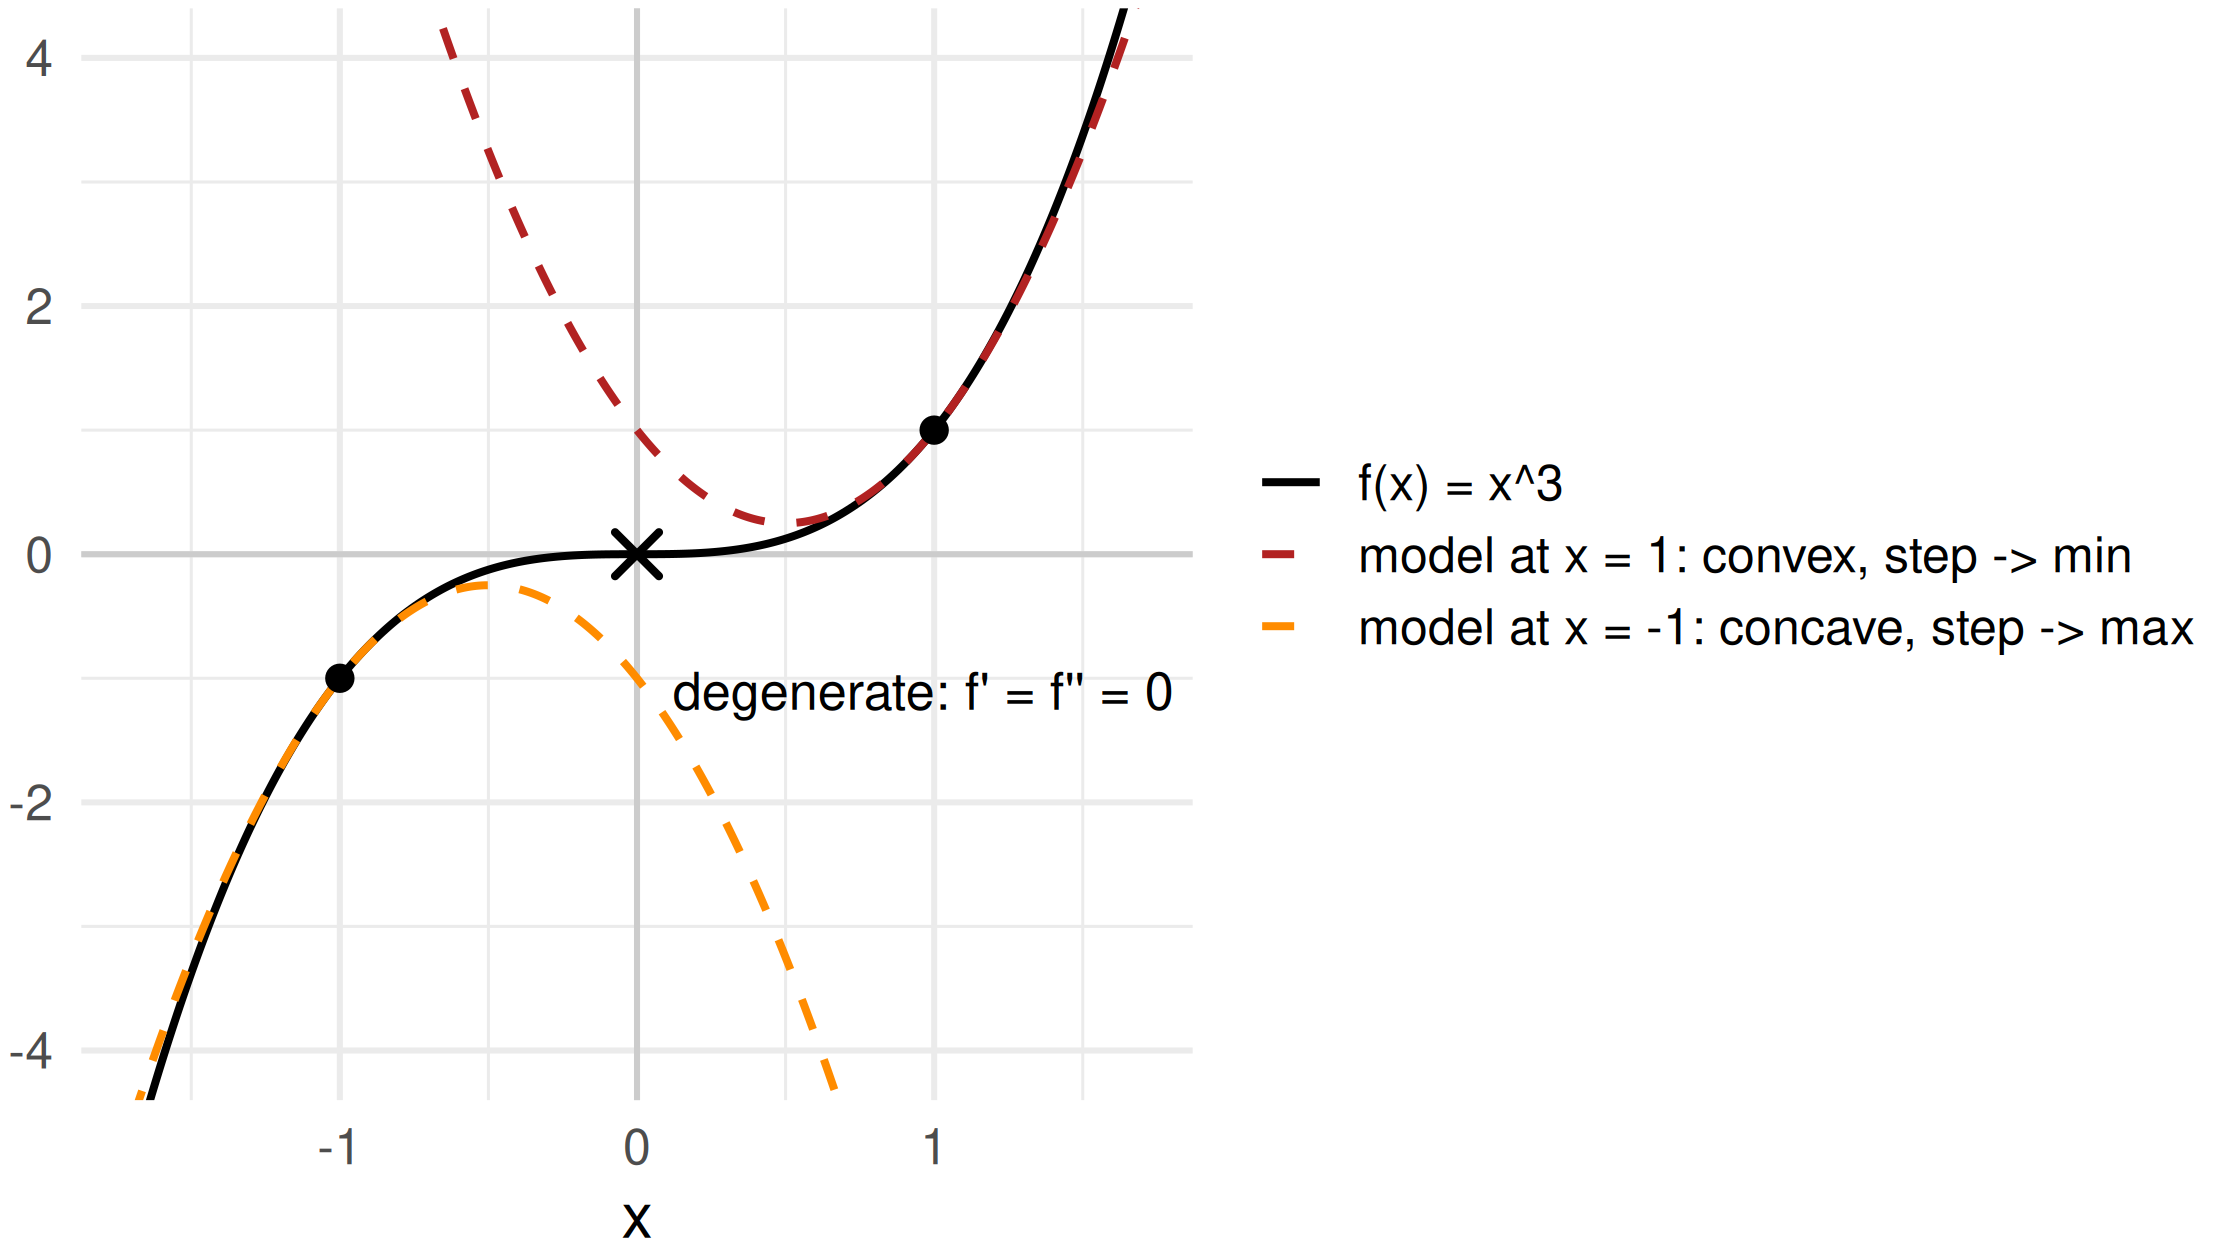
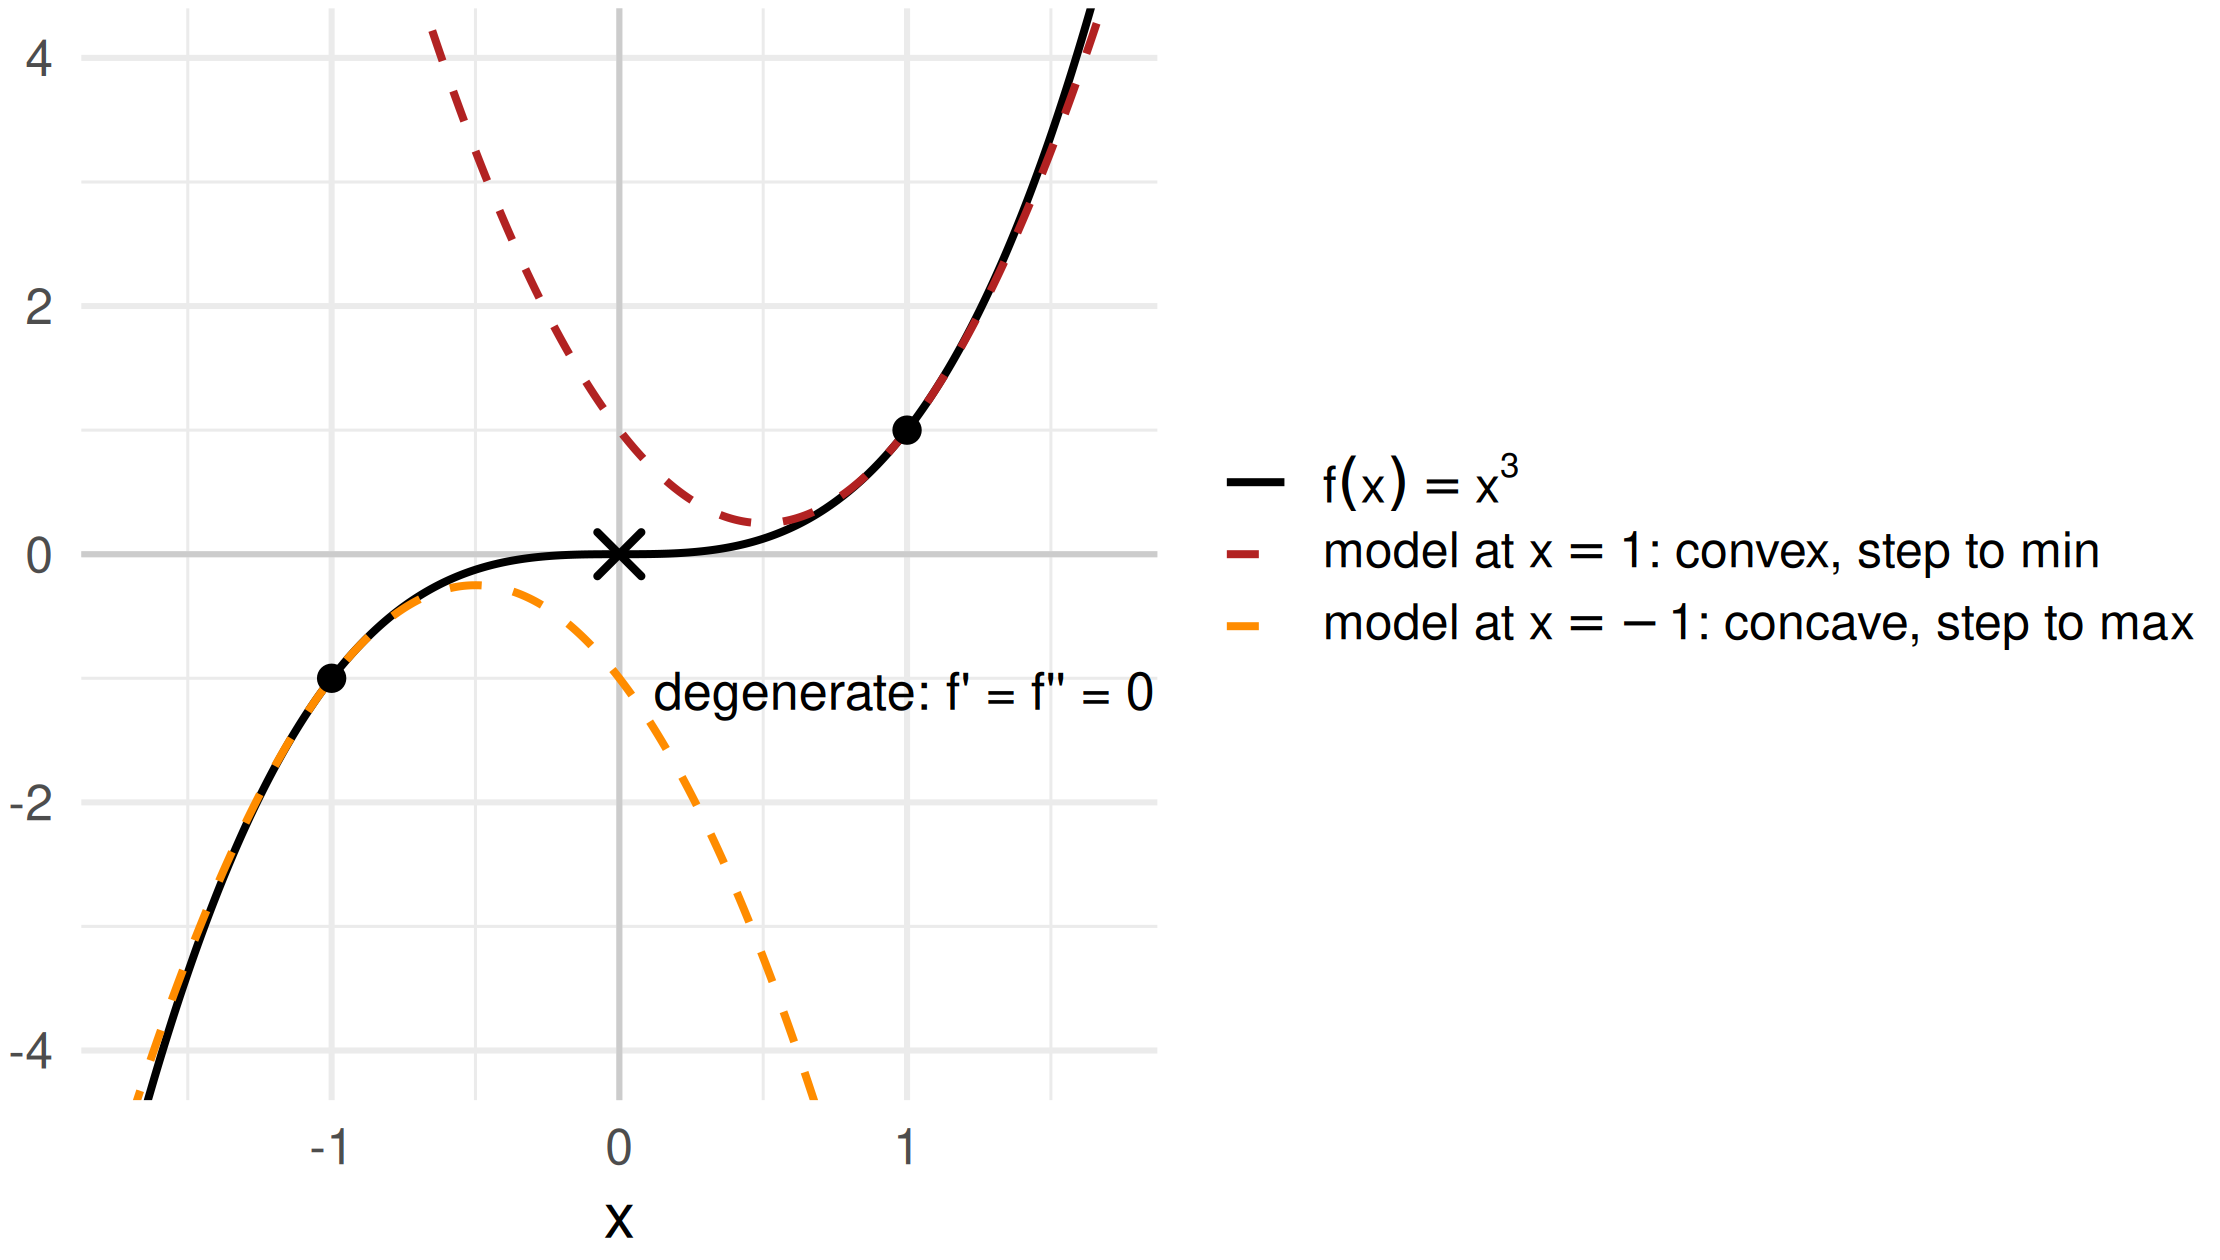
Finish NR limitation slides

diff --git a/slides/05-multivariate-second-order/slides-multivar-second-order-1b-limitations.tex b/slides/05-multivariate-second-order/slides-multivar-second-order-1b-limitations.tex
@@ -14,22 +14,67 @@ Second order methods
 }{
 Limitations of Newton-Raphson
 }{
-figure/NR_divergence.png
+figure/NR_saddle_2d.png
 }{
-\item Non-descent directions
 \item Singular and indefinite Hessian
+\item Non-descent directions
 \item Saddle points
 \item Computational cost
 \vspace{0.5cm}
 \item[] \hspace{-0.7cm}Slides based on\\
-\hspace{-0.7cm}\furtherreading{AGGARWAL2020} (Ch. 5.4-5.7)
+\hspace{-0.7cm}\furtherreading{AGGARWAL2020} (Ch. 5.6)
 }
 
-\begin{framei}[sep=L]{Limitations: Non-descent directions}
-\item \textbf{Problem 1:} In general, $\mathbf{d}^{[t]}$ is not a descent direction
+\begin{framei}[sep=L]{Limitation 1: Singular and indefinite Hessian}
+\item \textbf{Problem}: Newton-Raphson is designed for \textit{convex quadratic} $f$ with pd Hessian, but
+$\H = \nabla^2 f(\xv^{[t]})$ may be
+\begin{itemizeM}
+\item \textbf{singular}: $\nabla^2 f(\xv^{[t]}) \mathbf{d}^{[t]} = - \nabla f(\xv^{[t]})$ has no unique solution
+$\Rightarrow$ step undefined
+\item \textbf{near-singular}: step length blows up as $\lammin \to 0$, and errors already present in
+$\H$ and $\nabla f$ (minibatch noise, finite-difference approximations, floating-point roundoff)
+are amplified by $\kappa(\H) = |\lammax| / |\lammin|$
+\item \textbf{indefinite}: $\mathbf{d}^{[t]}$ is not a descent direction (Limitation 2), saddle points (Limitation 3)
+\end{itemizeM}
+\item \textbf{When does (near-)singularity happen in ML?} Rank-deficient design, collinear features, $d > n$,
+or degenerate optima
+\end{framei}
+
+
+\begin{framei}[sep=L]{Example: Singular Hessian in the $L_2$-SVM}
+\item Unregularized $L_2$-SVM (squared hinge loss) with $\thetav \in \R^d$:
+$$
+\risket = \sumin \max\{1 - \yi \thetav^T \xi, ~0\}^2
+$$
+\item Only margin violators $\mathcal{M} = \{i: \yi \thetav^T \xi < 1\}$ contribute to $\H \in \R^{d \times d}$:
+$$
+\H = 2 \sum_{i \in \mathcal{M}} \xi (\xi)^T
+$$
+\item Each $\xi (\xi)^T$ has \textbf{rank 1} $\Rightarrow$ $\operatorname{rank}(\H) \leq |\mathcal{M}|$,
+so we need at least $d$ margin violators for $\H$ to be invertible
+\item \textbf{But}: the better our fit, the fewer violators
+$\Rightarrow$ $\H$ becomes singular exactly where we want to converge
+\end{framei}
+
+
+\begin{framei}[sep=L]{Remedy: Regularized Newton step}
+\item Replace $\H$ by $\H + \lambda \id$ with $\lambda > 0$: all eigenvalues are shifted by $\lambda$
+$$
+(\H + \lambda \id) \mathbf{d}^{[t]} = - \nabla f(\xv^{[t]})
+$$
+\item Choosing $\lambda$ slightly larger than $|\lammin|$ makes $\H + \lambda \id$ pd
+$\Rightarrow$ invertible and descent direction
+\item Alternative: use pseudoinverse $\H^+$ instead of $\H^{-1}$
+\item \textbf{Caveat}: regularization does not cure ill-conditioning -- for nearly singular $\H$ the step
+stays sensitive to errors in $\H$ and $\nabla f$
+\end{framei}
+
+
+\begin{framei}[sep=L]{Limitation 2: Non-descent directions}
+\item \textbf{Problem}: In general, $\mathbf{d}^{[t]}$ is not a descent direction
 \item \textbf{But}: If Hessian is positive definite, $\mathbf{d}^{[t]}$ is descent direction:
 $$
-\nabla f(\xv^{[t]})^\top \mathbf{d}^{[t]} = - \nabla f(\xv^{[t]})^\top (\nabla^2 f(\xv^{[t]}))^{-1} \nabla f(\xv^{[t]}) < 0
+\nabla f(\xv^{[t]})^T \mathbf{d}^{[t]} = - \nabla f(\xv^{[t]})^T (\nabla^2 f(\xv^{[t]}))^{-1} \nabla f(\xv^{[t]}) < 0
 $$
 \item Near minimum, Hessian is positive definite
 \item For initial steps, Hessian is often not positive definite and Newton-Raphson may give non-descending update directions
@@ -49,105 +94,54 @@ $\Rightarrow$ Newton-Raphson cycles forever between $0$ and $1$
 \end{framei}
 
 
-\begin{framei}[sep=L]{Limitations: Singular and Indefinite Hessian}
-\item \textbf{Problem 2:} Newton-Raphson is designed for \textit{convex quadratic} $f$ with pd Hessian, but
-$\nabla^2 f(\xv^{[t]})$ may be
-\begin{itemizeM}
-\item \textbf{singular}: $\nabla^2 f(\xv^{[t]}) \mathbf{d}^{[t]} = - \nabla f(\xv^{[t]})$ has no unique solution
-$\Rightarrow$ step undefined
-\item {\color{red}\textbf{near-singular}: step length blows up as $\lammin \to 0$, and errors already present in
-$\H$ and $\nabla f$ are amplified by $\kappa(\H) = |\lammax| / |\lammin|$}
-\item \textbf{indefinite}: quadratic model has no minimizer $\Rightarrow$ non-descent direction (Problem 1)
-\end{itemizeM}
-\item \textbf{When does this happen in ML?} Rank-deficient design, collinear features, $d > n$,
-or degenerate optima
-\end{framei}
-
-
-\begin{framei}[sep=L]{Example: Singular Hessian in the $L_2$-SVM}
-\item Unregularized $L_2$-SVM (squared hinge loss):
-$$
-\risket = \sumin \max\{1 - \yi \thetav^\top \xi, ~0\}^2
-$$
-\item Only \textbf{margin violators} $\mathcal{M} = \{i: \yi \thetav^\top \xi < 1\}$ contribute:
-$$
-\H = 2 \sum_{i \in \mathcal{M}} \xi (\xi)^\top
-$$
-\item Each $\xi (\xi)^\top$ has \textbf{rank 1} $\Rightarrow$ $\text{rank}(\H) \leq |\mathcal{M}|$,
-so we need at least $d$ margin violators for $\H$ to be invertible
-\item \textbf{But}: the better our fit, the fewer violators
-$\Rightarrow$ $\H$ becomes singular exactly where we want to converge
-\end{framei}
-
-
-\begin{framei}[sep=L]{Remedy: Regularized Newton step}
-\item Replace $\H$ by $\H + \lambda \id$ with $\lambda > 0$: all eigenvalues are shifted by $\lambda$
-$$
-\left(\H + \lambda \id \right) \mathbf{d}^{[t]} = - \nabla f(\xv^{[t]})
-$$
-\item Choosing $\lambda$ slightly larger than $|\lammin|$ makes $\H + \lambda \id$ pd
-$\Rightarrow$ invertible and descent direction
-\item Alternative: use pseudoinverse $\H^{+}$ instead of $\H^{-1}$
-\item \textbf{Caveat}: regularization does not cure ill-conditioning -- for nearly singular $\H$ the step
-stays sensitive to errors in $\H$ and $\nabla f$
-\end{framei}
-
-
-\begin{framei}[fs=small]{Limitations: Saddle Points}
-\item \color{red} \textbf{Problem 3:} Newton-Raphson solves $\nabla f(\xv) = \zero$ $\Rightarrow$ attracted to \textbf{any}
+\begin{framei}{Limitation 3: Saddle points}
+\item \textbf{Problem}: Newton-Raphson solves $\nabla f(\xv) = \zero$ $\Rightarrow$ attracted to \textbf{any}
 critical point (minima, maxima, saddles)
-\item Example: $g(x_1, x_2) = x_1^2 - x_2^2$ with $\H = \left(\begin{smallmatrix} 2 & 0 \\ 0 & -2 \end{smallmatrix}\right)$
-indefinite everywhere
-\item $g$ is quadratic $\Rightarrow$ a single Newton step lands \textit{exactly} on the saddle $(0,0)$,
-from any starting point, while GD is repelled along the negative curvature direction $x_2$ and escapes
+\item \textbf{Example}: $f(x_1, x_2) = x_1^2 - x_2^2$ with $\H = \left(\begin{smallmatrix} 2 & 0 \\ 0 & -2 \end{smallmatrix}\right)$
+indefinite
+\begin{itemizeS}
+\item Since $f$ is quadratic, a single Newton step lands \textit{exactly} on the saddle $(0,0)$, from any starting point
+\item GD is repelled along the negative curvature direction $x_2$ and escapes (as long as $x_2^{[0]} \neq 0$)
+\end{itemizeS}
 \imageC[0.72]{figure/NR_saddle_2d.png}
 \end{framei}
 
-
-\begin{framei}[fs=small]{Saddle Points: Model flips shape}
-\item \color{red} Near an inflection point, the quadratic model flips shape, e.g., for $f(x) = x^3$:
-\begin{itemizeS}
-\item at $x = 1$: $F(x) = 3x^2 - 3x + 1$ is convex $\Rightarrow$ step towards a min
-\item at $x = -1$: $G(x) = -3x^2 - 3x - 1$ is concave $\Rightarrow$ step towards a max
-\end{itemizeS}
-\item At $x = 0$: $f'= f''= 0$ $\Rightarrow$ update $0/0$ undefined (\textbf{degenerate critical point},
-which may still be a true min, e.g., for $h(x) = x^4$)
+\comment[TODO]{TH}{I am a little bit unhappy with this slide / the saddle point limitation in general (took it from Aggarwal but I think it is not very good). Missing a clear message particularly for the flip slide. Discuss and revise.}
+\begin{framei}{Saddle points: Approximation flips}
+\item Near an inflection point, the quadratic approximation flips, e.g., for $f(x) = x^3$:
 \imageC[0.66]{figure/NR_saddle_1d.png}
+\item At $x = 0$: $f'= f''= 0$ $\Rightarrow$ update $0/0$ undefined (\textbf{degenerate critical point})
 \end{framei}
 
 
-\begin{framei}[sep=L]{Saddle Points: Why this matters}
-\item \color{red} In high-dimensional non-convex problems (e.g., DNNs), saddle points vastly outnumber true optima
-\item \textbf{GD can escape} saddle points -- it is simply not attracted by them --
-\textbf{Newton-Raphson cannot}, it is attracted \textit{indiscriminately} to all critical points
-\item $\Rightarrow$ second order is not uniformly better: it pays off for complex curvature, but not for
+\begin{framei}{Saddle points: Why this matters}
+\item In high-dimensional non-convex problems (e.g., DNNs), saddle points vastly outnumber true optima
+\item \textbf{GD can escape} saddle points: it is not attracted by them but may still get stuck in flat regions
+\item \textbf{Newton-Raphson cannot escape} saddle points: it is attracted \textit{indiscriminately} to all critical points
+\item Second order is not uniformly better: it pays off for complex curvature, but not for
 landscapes riddled with saddles
 \item Practitioners often prefer first order methods with adaptive schemes (e.g., Adam), which pick up
-some curvature information implicitly and at much lower cost
+some curvature information implicitly and at much lower cost (more on this in the next chapter)
 \end{framei}
 
 
-\begin{framei}[sep=L]{Limitations: Computational Cost}
-\item \textbf{Problem 4:} Hessian can be \textbf{computationally expensive} to calculate, as descent direction $\mathbf{d}^{[t]}$ is solution of the linear system
+\begin{framei}{Limitation 4: Computational cost}
+\item \textbf{Problem}: The Newton-Raphson update can be \textbf{computationally expensive}, as $\mathbf{d}^{[t]}$ is solution of the linear system
 $$
 \nabla^2 f(\xv^{[t]}) \mathbf{d}^{[t]} = - \nabla f(\xv^{[t]})
 $$
 \item For $\xv \in \R^d$, the Hessian has $d^2$ entries: $\mathcal{O}(d^2)$ memory, and $\mathcal{O}(d^3)$ per iteration to solve the linear system (compared to $\mathcal{O}(d)$ memory and no linear solve for GD)
 \item For large $d$ (e.g., deep neural networks with $d \sim 10^9$ parameters),
       this is prohibitive: storing a dense $d \times d$ Hessian alone is infeasible
-\item \textbf{Aim:} Find quasi-second order methods not relying on exact Hessians
+\item \textbf{In ML}: for ERM with $n$ observations, already forming $\H$ costs another $\mathcal{O}(n d^2)$ (compared to $\mathcal{O}(nd)$ for $\nabla \risket$)
+\item Newton-Raphson needs far fewer iterations than GD, but for large $d$ the cost
+\textit{per} iteration dominates
+\item \textbf{Aim:} Find quasi-second order methods not relying on exact $\H$
 \begin{itemizeS}
 \item Quasi-Newton method
 \item Gauss-Newton algorithm (for least squares)
 \end{itemizeS}
 \end{framei}
-
-\comment[NOTE]{BB}{genauer wie.
-Finding the inverse of the Hessian in high dimensions to compute the Newton direction {\displaystyle h=-(f''(x_{k}))^{-1}f'(x_{k})}{\displaystyle h=-(f''(x_{k}))^{-1}f'(x_{k})} can be an expensive operation. In such cases, instead of directly inverting the Hessian, it is better to calculate the vector {\displaystyle h}h as the solution to the system of linear equations
-{\displaystyle [f''(x_{k})]h=-f'(x_{k})}{\displaystyle [f''(x_{k})]h=-f'(x_{k})}
-which may be solved by various factorizations or approximately (but to great accuracy) using iterative methods. Many of these methods are only applicable to certain types of equations, for example the Cholesky factorization and conjugate gradient will only work if {\displaystyle f''(x_{k})}{\displaystyle f''(x_{k})} is a positive definite matrix. While this may seem like a limitation, it is often a useful indicator of something gone wrong; for example if a minimization problem is being approached and {\displaystyle f''(x_{k})}{\displaystyle f''(x_{k})} is not positive definite, then the iterations are converging to a saddle point and not a minimum.}
-
-\comment[NOTE]{UU}{Warum? Eine schlecht konditionierte Hesse-Matrix könnte Probleme machen. Aber die Lösung des LGS an sich ist nicht das Problem, da es stabile Lösungsverfahren (LU mit Pivoting oder QR-Zerlegung mit Householder-Transformationen) gibt}
 
 \endlecture
 \end{document}
